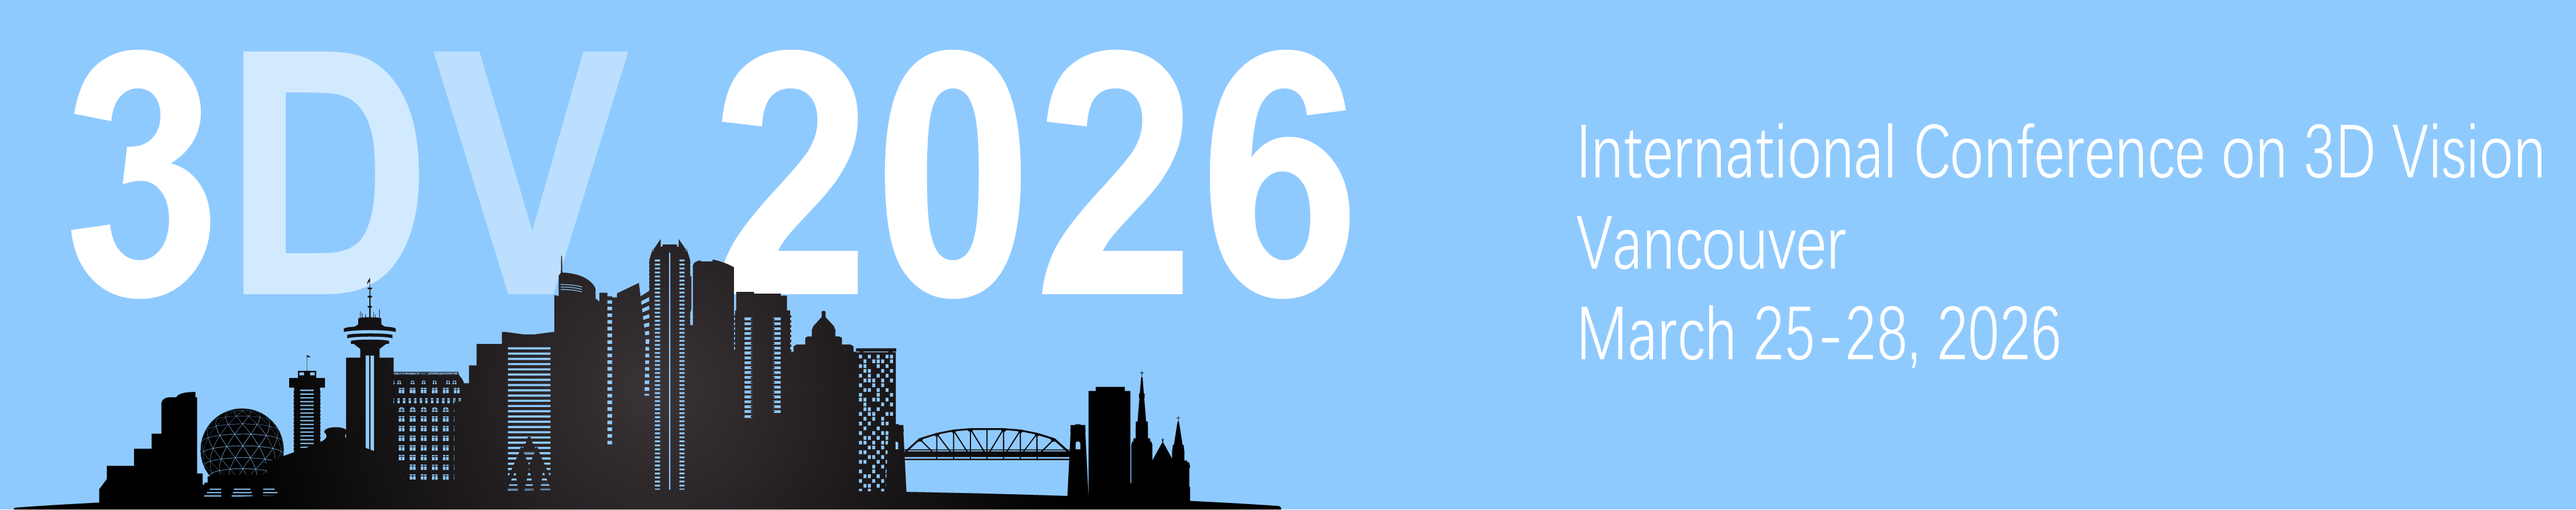
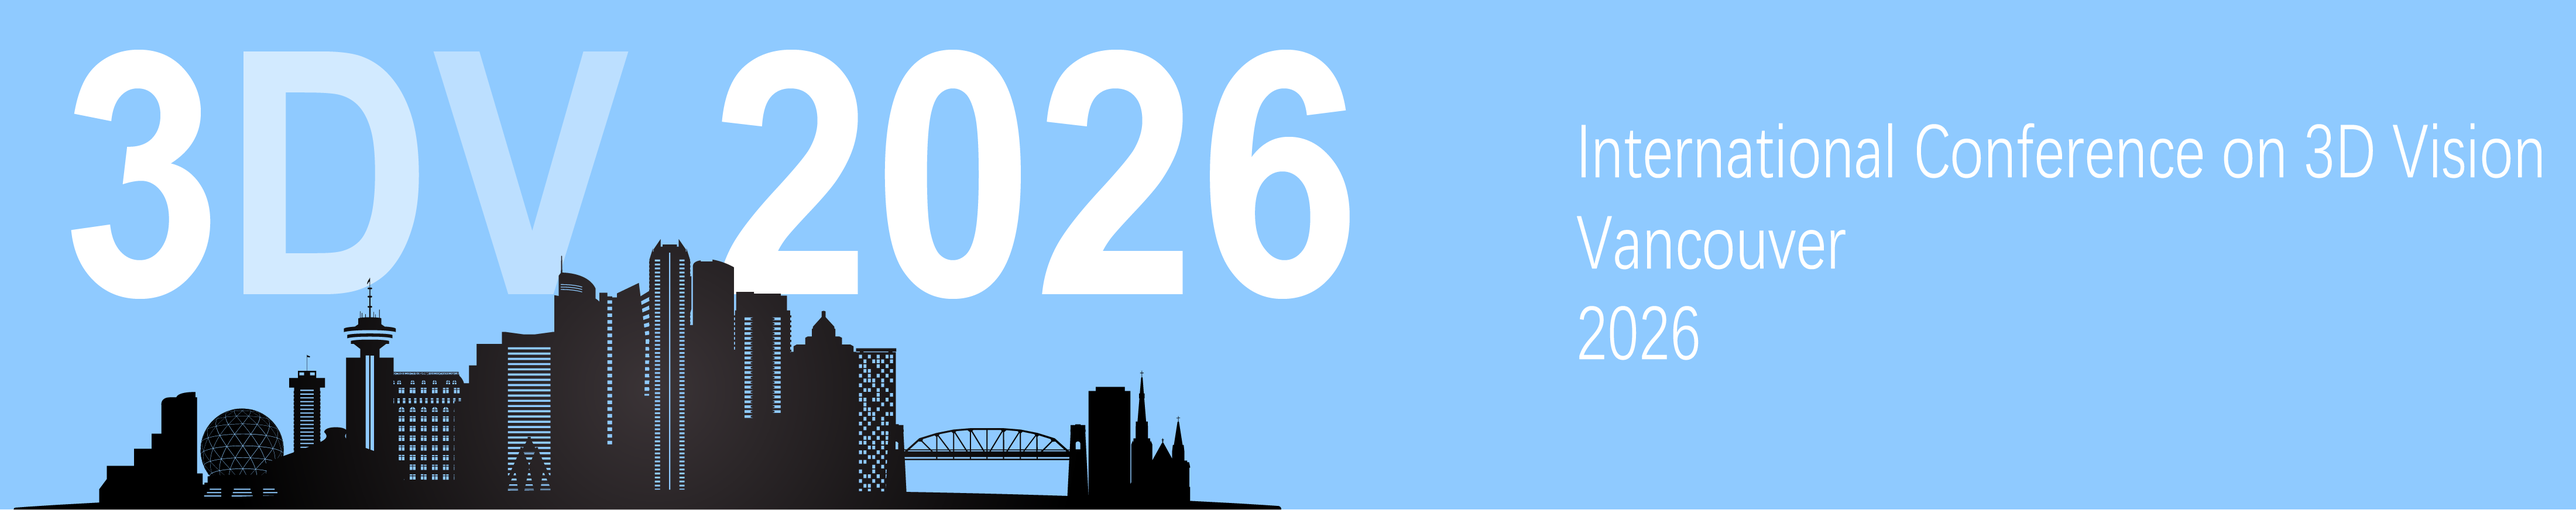
temporarily remove exact date for 2026

Changed region(s): [[0.5915, 0.5883, 0.8094, 0.7122]]

diff --git a/2026/index.md b/2026/index.md
@@ -27,7 +27,7 @@ Regular Regular Registration Deadline: <b>March 10, 2026</b>
 </i>
 </div> -->
 
-The 13th International Conference on 3D Vision will be held in-person in **Vancouver** on **?, 2026**.
+The 13th International Conference on 3D Vision will be held in-person in **Vancouver** in 2026. Exact dates will be announced soon—stay tuned for updates!
 
 <!-- This event has provided a premier platform for disseminating research results covering a broad variety of topics in the area of 3D research in computer vision and graphics, from novel optical sensors, signal processing, geometric modelling, representation and transmission, to visualization and interaction, and a variety of applications.  -->
 
